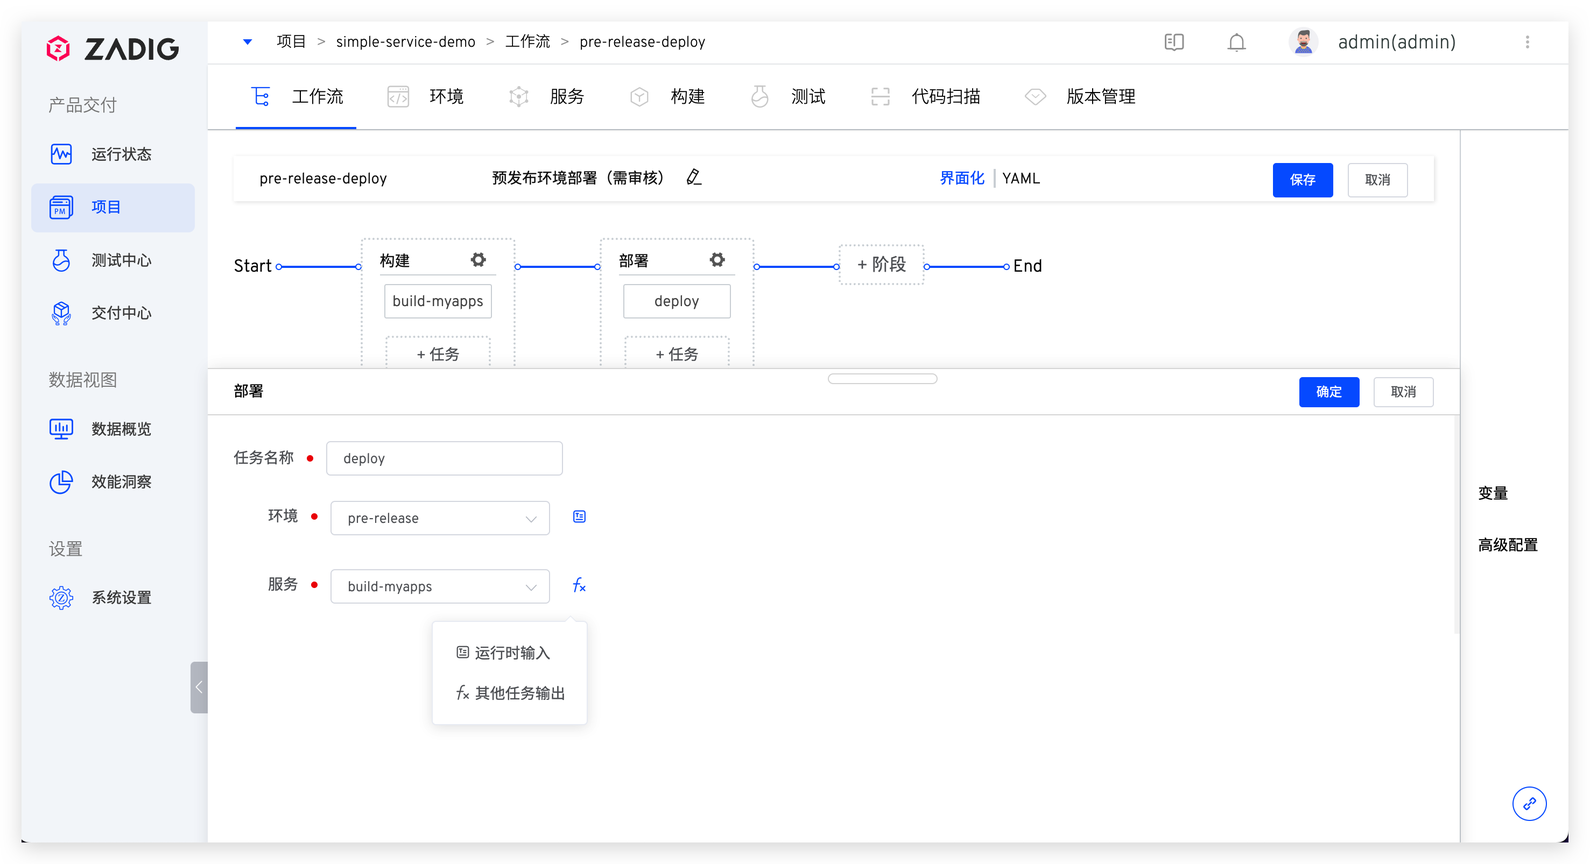
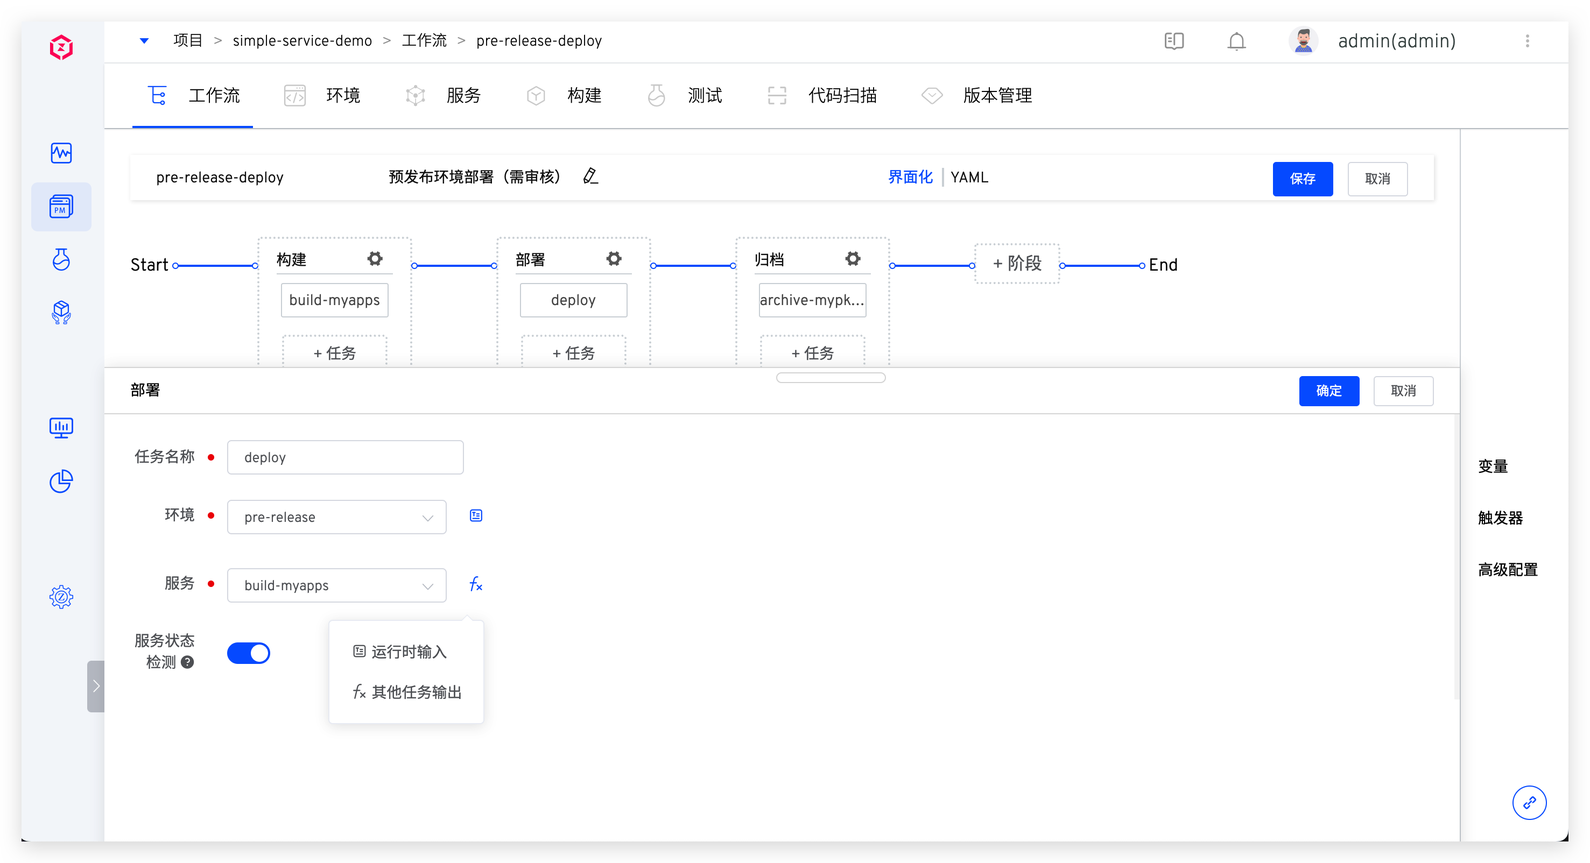
update common pipeline var description

diff --git a/v1.14.0/04.项目/02.工作流/02.common_workflow.md b/v1.14.0/04.项目/02.工作流/02.common_workflow.md
@@ -10,7 +10,7 @@ permalink: /v1.14.0/project/common-workflow/
 
 - 自定义工作流：对工作流流程自由编排，由一系列阶段组成
 - 阶段：对工作流执行阶段进行逻辑分组，比如构建阶段、部署阶段...多个阶段串行运行，一个阶段可包括多个任务
-- 任务：一个完整的任务，比如构建、部署、测试...多个任务可串行执行或并发执行
+- 任务：一个完整的任务，比如构建、部署、测试、自定义任务...多个任务可串行执行或并发执行
 <!-- - Step：组成任务的单元，比如克隆代码、执行 Shell 脚本、执行镜像构建、收集测试报告等... -->
 
 ## 新建
@@ -50,11 +50,9 @@ permalink: /v1.14.0/project/common-workflow/
 参数说明：
 - `任务名称`：支持 32 位以内的小写英文字母、数字或者中划线，且以小写英文字母开头；在同一个自定义工作流中，Job 名称需唯一
 - `镜像仓库`：选择镜像仓库，当构建 Job 执行完成功后，构建出的镜像（即内置 $IMAGE 变量）会被推送到所选仓库中
-- `服务组件`：选择服务组件以及该服务组件使用的构建配置
-
-点击展开构建配置的 `设置`，可设置该构建配置中的变量值以及代码库默认分支，变量的配置参考：[变量配置](#变量来源配置)
-
-![common_workflow_config](../_images/common_workflow_config_3_1.png)
+- `服务组件`：选择服务组件以及该服务组件使用的构建名称，点击展开构建配置的 `设置` 可配置所选中的变量值以及代码库默认分支
+  - `变量`：参考 [构建任务变量](/v1.14.0/project/common-workflow/#构建任务-2)
+  - `分支配置`：选择代码库并指定默认分支，执行工作流时会默认使用指定的分支
 
 ::: tip
 1. 内置构建任务执行结束后会输出 $IMAGE 变量（页面中不可见，系统隐式逻辑），可用于内置部署任务中。
@@ -67,10 +65,14 @@ permalink: /v1.14.0/project/common-workflow/
 
 参数说明：
 - `任务名称`：支持 32 位以内的小写英文字母、数字或者中划线，且以小写英文字母开头；在同一个自定义工作流中，任务名称需唯一
-- `环境`：选择要部署的环境，支持三种来源，参考 [环境配置](#变量来源配置)
-- `服务来源`：包括其他任务输出或运行时输入
+- `环境`：选择要部署的环境，支持三种来源：
+  - `运行时输入`：执行工作流时再指定部署环境
+  - `固定值`：设置部署环境为固定值，执行工作流时不可再更改
+  - `全局变量`：使用全局变量为环境赋值，工作流执行时会自动对全局变量进行渲染替换。全局变量包括 [项目变量](/v1.14.0/project/common-workflow/#项目) 和 [工作流变量](/v1.14.0/project/common-workflow/#工作流)
+- `服务`：配置要部署的服务，包括其他任务输出或运行时输入
     - `其他任务输出`：可选择前置任务，使用任务中的 $IMAGE 变量来部署服务（目前只支持选择前置的构建任务）
     - `运行时输入`：运行工作流时手动指定
+- `服务状态检测`：若开启后，部署任务会轮询服务运行状态，待服务正常运行，任务状态才为成功。
 
 #### 通用任务
 
@@ -78,12 +80,15 @@ permalink: /v1.14.0/project/common-workflow/
 
 - `执行环境`：参考 [构建环境配置](/v1.14.0/project/build/#构建环境)
 - `代码信息`：参考 [代码信息配置](/v1.14.0/project/build/#代码信息)
-- `变量`：包括内置变量和自定义变量，分别参考 [变量配置](/v1.14.0/project/build/#构建变量)、[自定义变量配置](#变量来源配置)
+- `变量`：参考 [通用任务变量](/v1.14.0/project/common-workflow/#通用任务-2)
 - `添加步骤`：包括添加 Shell 脚本执行以及文件存储，可参考 [更多构建配置](/v1.14.0/project/build/#更多构建步骤)
 - `高级配置`：参考 [高级配置](/v1.14.0/project/build/#高级配置)
 
 ![common_workflow_config](../_images/common_workflow_config_6.png)
 ![common_workflow_config](../_images/common_workflow_config_7.png)
+
+#### 自定义任务
+自己定义任务的实现，在工作流中配置自定义任务，详细使用方法请参考 [自定义任务](/v1.14.0/settings/custom-task/)。
 
 ### 人工审核
 开启阶段配置中的`人工审核`，在该阶段执行之前会触发审核。
@@ -94,12 +99,6 @@ permalink: /v1.14.0/project/common-workflow/
 - `超时时间`：从触发审核的时间点开始算起，当超过超时时间后视为审核超时失败，后续阶段中的任务将不会被执行
 - `审核人`：选择希望参与审核的人员
 - `需要审核人数`：当审核通过的人数满足此处指定的值时，即视为整个审核通过，该阶段中的任务会正常执行
-
-### 变量来源配置
-变量的值包括以下三种来源：
-- `运行时输入`：运行自定义工作流时再指定该变量的值
-- `固定值`：指定为固定值，工作流执行时即使用该固定值，页面中该变量不可见
-- `全局变量`：使用全局变量来赋值，在工作流执行时会自动渲染全局变量的值，支持的全局变量可参考 [自定义变量](/v1.14.0/project/common-workflow/#变量配置)
 
 ## YAML 方式配置
 
@@ -247,25 +246,44 @@ description: 预发布环境部署
 multi_run: false
 ```
 
-## 变量配置
+## 变量
+
+自定义工作流中提供丰富的变量能力，以支持参数化配置工作流，并且在阶段和任务之间传递信息。以下分不同的使用范围分别介绍。
+
+
+### 项目
+> 项目级别的变量，可用于当前项目的所有自定义工作流中。
+
+支持的变量见下表：
+
+| 变量                                               | 说明                                                |
+|---------------------------------------------------|-----------------------------------------------------|
+|  <span v-pre>`{{.project}}`</span>                | 项目的名称，下图例中即为 `simple-service-demo`          |
+
+![common_workflow_config](../_images/common_workflow_pipeline_var_demo_0.png)
+
+### 工作流
+
+> 工作流级别的变量，可用于当前工作流的构建任务/部署任务/通用任务/自定义任务中。
 
 包括内置变量和自定义变量。
 
-### 内置变量
+#### 内置变量
 
 支持的内置变量见下表：
 
-| 变量                                               | 说明                       |
-|---------------------------------------------------|----------------------------|
-|  <span v-pre>`{{.project}}`</span>                | 项目的名称                   |
-|  <span v-pre>`{{.workflow.name}}`</span>          | 工作流的名称                 |
-|  <span v-pre>`{{.workflow.task.id}}`</span>       | 工作流任务的 ID 序号          |
-|  <span v-pre>`{{.workflow.task.creator}}`</span>  | 工作流任务的创建者            |
-| <span v-pre>`{{.workflow.task.timestamp}}`</span> | 工作流任务创建时的 Unix 时间戳 |
+| 变量                                                | 说明                                                |
+|----------------------------------------------------|-----------------------------------------------------|
+|  <span v-pre>`{{.workflow.name}}`</span>           | 工作流的名称，下图例中即为 `pre-release-deploy`         |
+|  <span v-pre>`{{.workflow.task.id}}`</span>        | 工作流任务的 ID 序号，下图例中即为 `1`                   |
+|  <span v-pre>`{{.workflow.task.creator}}`</span>   | 工作流任务的执行人，下图例中即为 `admin`                 |
+|  <span v-pre>`{{.workflow.task.timestamp}}`</span> | 工作流任务创建时的 Unix 时间戳，下图例中即为 `1660555623` |
 
-### 自定义变量
+![common_workflow_config](../_images/common_workflow_pipeline_var_demo.png)
 
-点击右侧的 `变量` 进入自定义变量配置页面。
+#### 自定义变量
+
+编辑工作流，点击页面右侧的 `变量` 进入自定义变量配置页面。
 
 ![common_workflow_config](../_images/common_workflow_config_var_0.png)
 
@@ -274,7 +292,7 @@ multi_run: false
 说明如下：
 
 - `类型`：支持字符串/多行文本/枚举类型，其中字符串为单行文本
-- `键`：自定义变量的 key，可在任务中通过 <span v-pre>`{{.key}}`</span> 的形式使用
+- `键`：自定义变量的 key，可以使用 <span v-pre>`{{.workflow.params.key}}`</span> 的形式为构建/部署/通用/自定义任务中的变量赋值
 - `值`：自定义变量的值，支持以下两种配置方式：
   - `运行时输入`：执行工作流时，在`工作流变量`设置中指定该变量的值
   - `固定值`：指定变量的值，工作流执行时即使用该固定值，页面中该变量不可见
@@ -282,6 +300,43 @@ multi_run: false
 上图例中 `LOG_LEVEL` 和 `MYSQL_USER_DB` 的值为运行时输入，`ISSUER_URL` 的值为固定值，执行工作流时效果如下：
 
 ![common_workflow_config](../_images/common_workflow_config_var_1.png)
+
+### 构建任务
+> 内置构建任务中的变量。
+
+变量的键和类型在此处不可更改，变量定义请阅读 [构建配置](/v1.14.0/project/build/#构建变量) 中的自定义构建变量部分。支持以下三种方式设置变量的值：
+
+- `运行时输入`：执行工作流时再指定该变量的值
+- `固定值`：指定变量的值，工作流执行时即使用该固定值，页面中该变量不可见
+- `全局变量`：使用全局变量为构建任务中的变量赋值，工作流执行时会自动对全局变量进行渲染。全局变量包括 [项目变量](/v1.14.0/project/common-workflow/#项目) 和 [工作流变量](/v1.14.0/project/common-workflow/#工作流)
+
+![common_workflow_config](../_images/common_workflow_config_3_1.png)
+
+### 通用任务
+> 通用任务中的变量。
+
+包括内置变量和自定义变量。
+
+![common_workflow_config](../_images/common_workflow_config_common_task.png)
+
+内置变量请参考 [构建变量](v1.14.0/project/build/#构建变量) 中关于内置构建变量的描述，自定义变量说明如下：
+
+- `类型`：支持创建字符串类型和枚举类型的自定义变量
+- `键`：自定义变量的 key，可在 `添加步骤` 中通过 `$key` 的形式来使用
+- `值`：自定义变量的值，支持以下三种配置方式：
+  - `运行时输入`：执行工作流时再指定该变量的值
+  - `固定值`：指定变量的值，工作流执行时即使用该固定值，页面中该变量不可见
+  - `全局变量`：使用全局变量为通用任务中的自定义变量赋值，工作流执行时会自动对全局变量进行渲染。全局变量包括 [项目变量](/v1.14.0/project/common-workflow/#项目) 和 [工作流变量](/v1.14.0/project/common-workflow/#工作流)
+
+### 自定义任务
+> 自定义任务中的变量。
+
+在自定义任务的 YAML 文件中定义，YAML 定义请参考 [工作流任务](/v1.14.0/settings/custom-task/)，变量值的配置支持以下三种方式：
+- `运行时输入`：执行工作流时再指定该变量的值
+- `固定值`：指定变量的值，工作流执行时即使用该固定值，页面中该变量不可见
+- `全局变量`：使用全局变量为通用任务中的自定义变量赋值，工作流执行时会自动对全局变量进行渲染。全局变量包括 [项目变量](/v1.14.0/project/common-workflow/#项目) 和 [工作流变量](/v1.14.0/project/common-workflow/#工作流)
+
+![common_workflow_config](../_images/common_workflow_config_self_define_var.png)
 
 ## 触发器配置
 > 为工作流配置 Webhook 触发器，当满足触发条件的事件发生时会自动触发工作流执行，暂不支持通过 SSH 协议或 AccessToken 方式接入的代码源。

diff --git a/dev/04.项目/02.工作流/02.common_workflow.md b/dev/04.项目/02.工作流/02.common_workflow.md
@@ -10,7 +10,7 @@ permalink: /dev/project/common-workflow/
 
 - 自定义工作流：对工作流流程自由编排，由一系列阶段组成
 - 阶段：对工作流执行阶段进行逻辑分组，比如构建阶段、部署阶段...多个阶段串行运行，一个阶段可包括多个任务
-- 任务：一个完整的任务，比如构建、部署、测试...多个任务可串行执行或并发执行
+- 任务：一个完整的任务，比如构建、部署、测试、自定义任务...多个任务可串行执行或并发执行
 <!-- - Step：组成任务的单元，比如克隆代码、执行 Shell 脚本、执行镜像构建、收集测试报告等... -->
 
 ## 新建
@@ -50,11 +50,9 @@ permalink: /dev/project/common-workflow/
 参数说明：
 - `任务名称`：支持 32 位以内的小写英文字母、数字或者中划线，且以小写英文字母开头；在同一个自定义工作流中，Job 名称需唯一
 - `镜像仓库`：选择镜像仓库，当构建 Job 执行完成功后，构建出的镜像（即内置 $IMAGE 变量）会被推送到所选仓库中
-- `服务组件`：选择服务组件以及该服务组件使用的构建配置
-
-点击展开构建配置的 `设置`，可设置该构建配置中的变量值以及代码库默认分支，变量的配置参考：[变量配置](#变量来源配置)
-
-![common_workflow_config](../_images/common_workflow_config_3_1.png)
+- `服务组件`：选择服务组件以及该服务组件使用的构建名称，点击展开构建配置的 `设置` 可配置所选中的变量值以及代码库默认分支
+  - `变量`：参考 [构建任务变量](/dev/project/common-workflow/#构建任务-2)
+  - `分支配置`：选择代码库并指定默认分支，执行工作流时会默认使用指定的分支
 
 ::: tip
 1. 内置构建任务执行结束后会输出 $IMAGE 变量（页面中不可见，系统隐式逻辑），可用于内置部署任务中。
@@ -67,10 +65,14 @@ permalink: /dev/project/common-workflow/
 
 参数说明：
 - `任务名称`：支持 32 位以内的小写英文字母、数字或者中划线，且以小写英文字母开头；在同一个自定义工作流中，任务名称需唯一
-- `环境`：选择要部署的环境，支持三种来源，参考 [环境配置](#变量来源配置)
-- `服务来源`：包括其他任务输出或运行时输入
+- `环境`：选择要部署的环境，支持三种来源：
+  - `运行时输入`：执行工作流时再指定部署环境
+  - `固定值`：设置部署环境为固定值，执行工作流时不可再更改
+  - `全局变量`：使用全局变量为环境赋值，工作流执行时会自动对全局变量进行渲染替换。全局变量包括 [项目变量](/dev/project/common-workflow/#项目) 和 [工作流变量](/dev/project/common-workflow/#工作流)
+- `服务`：配置要部署的服务，包括其他任务输出或运行时输入
     - `其他任务输出`：可选择前置任务，使用任务中的 $IMAGE 变量来部署服务（目前只支持选择前置的构建任务）
     - `运行时输入`：运行工作流时手动指定
+- `服务状态检测`：若开启后，部署任务会轮询服务运行状态，待服务正常运行，任务状态才为成功。
 
 #### 通用任务
 
@@ -78,12 +80,15 @@ permalink: /dev/project/common-workflow/
 
 - `执行环境`：参考 [构建环境配置](/dev/project/build/#构建环境)
 - `代码信息`：参考 [代码信息配置](/dev/project/build/#代码信息)
-- `变量`：包括内置变量和自定义变量，分别参考 [变量配置](/dev/project/build/#构建变量)、[自定义变量配置](#变量来源配置)
+- `变量`：参考 [通用任务变量](/dev/project/common-workflow/#通用任务-2)
 - `添加步骤`：包括添加 Shell 脚本执行以及文件存储，可参考 [更多构建配置](/dev/project/build/#更多构建步骤)
 - `高级配置`：参考 [高级配置](/dev/project/build/#高级配置)
 
 ![common_workflow_config](../_images/common_workflow_config_6.png)
 ![common_workflow_config](../_images/common_workflow_config_7.png)
+
+#### 自定义任务
+自己定义任务的实现，在工作流中配置自定义任务，详细使用方法请参考 [自定义任务](/dev/settings/custom-task/)。
 
 ### 人工审核
 开启阶段配置中的`人工审核`，在该阶段执行之前会触发审核。
@@ -94,12 +99,6 @@ permalink: /dev/project/common-workflow/
 - `超时时间`：从触发审核的时间点开始算起，当超过超时时间后视为审核超时失败，后续阶段中的任务将不会被执行
 - `审核人`：选择希望参与审核的人员
 - `需要审核人数`：当审核通过的人数满足此处指定的值时，即视为整个审核通过，该阶段中的任务会正常执行
-
-### 变量来源配置
-变量的值包括以下三种来源：
-- `运行时输入`：运行自定义工作流时再指定该变量的值
-- `固定值`：指定为固定值，工作流执行时即使用该固定值，页面中该变量不可见
-- `全局变量`：使用全局变量来赋值，在工作流执行时会自动渲染全局变量的值，支持的全局变量可参考 [自定义变量](/dev/project/common-workflow/#变量配置)
 
 ## YAML 方式配置
 
@@ -247,25 +246,44 @@ description: 预发布环境部署
 multi_run: false
 ```
 
-## 变量配置
+## 变量
+
+自定义工作流中提供丰富的变量能力，以支持参数化配置工作流，并且在阶段和任务之间传递信息。以下分不同的使用范围分别介绍。
+
+
+### 项目
+> 项目级别的变量，可用于当前项目的所有自定义工作流中。
+
+支持的变量见下表：
+
+| 变量                                               | 说明                                                |
+|---------------------------------------------------|-----------------------------------------------------|
+|  <span v-pre>`{{.project}}`</span>                | 项目的名称，下图例中即为 `simple-service-demo`          |
+
+![common_workflow_config](../_images/common_workflow_pipeline_var_demo_0.png)
+
+### 工作流
+
+> 工作流级别的变量，可用于当前工作流的构建任务/部署任务/通用任务/自定义任务中。
 
 包括内置变量和自定义变量。
 
-### 内置变量
+#### 内置变量
 
 支持的内置变量见下表：
 
-| 变量                                               | 说明                       |
-|---------------------------------------------------|----------------------------|
-|  <span v-pre>`{{.project}}`</span>                | 项目的名称                   |
-|  <span v-pre>`{{.workflow.name}}`</span>          | 工作流的名称                 |
-|  <span v-pre>`{{.workflow.task.id}}`</span>       | 工作流任务的 ID 序号          |
-|  <span v-pre>`{{.workflow.task.creator}}`</span>  | 工作流任务的创建者            |
-| <span v-pre>`{{.workflow.task.timestamp}}`</span> | 工作流任务创建时的 Unix 时间戳 |
+| 变量                                                | 说明                                                |
+|----------------------------------------------------|-----------------------------------------------------|
+|  <span v-pre>`{{.workflow.name}}`</span>           | 工作流的名称，下图例中即为 `pre-release-deploy`         |
+|  <span v-pre>`{{.workflow.task.id}}`</span>        | 工作流任务的 ID 序号，下图例中即为 `1`                   |
+|  <span v-pre>`{{.workflow.task.creator}}`</span>   | 工作流任务的执行人，下图例中即为 `admin`                 |
+|  <span v-pre>`{{.workflow.task.timestamp}}`</span> | 工作流任务创建时的 Unix 时间戳，下图例中即为 `1660555623` |
 
-### 自定义变量
+![common_workflow_config](../_images/common_workflow_pipeline_var_demo.png)
 
-点击右侧的 `变量` 进入自定义变量配置页面。
+#### 自定义变量
+
+编辑工作流，点击页面右侧的 `变量` 进入自定义变量配置页面。
 
 ![common_workflow_config](../_images/common_workflow_config_var_0.png)
 
@@ -274,7 +292,7 @@ multi_run: false
 说明如下：
 
 - `类型`：支持字符串/多行文本/枚举类型，其中字符串为单行文本
-- `键`：自定义变量的 key，可在任务中通过 <span v-pre>`{{.key}}`</span> 的形式使用
+- `键`：自定义变量的 key，可以使用 <span v-pre>`{{.workflow.params.key}}`</span> 的形式为构建/部署/通用/自定义任务中的变量赋值
 - `值`：自定义变量的值，支持以下两种配置方式：
   - `运行时输入`：执行工作流时，在`工作流变量`设置中指定该变量的值
   - `固定值`：指定变量的值，工作流执行时即使用该固定值，页面中该变量不可见
@@ -282,6 +300,43 @@ multi_run: false
 上图例中 `LOG_LEVEL` 和 `MYSQL_USER_DB` 的值为运行时输入，`ISSUER_URL` 的值为固定值，执行工作流时效果如下：
 
 ![common_workflow_config](../_images/common_workflow_config_var_1.png)
+
+### 构建任务
+> 内置构建任务中的变量。
+
+变量的键和类型在此处不可更改，变量定义请阅读 [构建配置](/dev/project/build/#构建变量) 中的自定义构建变量部分。支持以下三种方式设置变量的值：
+
+- `运行时输入`：执行工作流时再指定该变量的值
+- `固定值`：指定变量的值，工作流执行时即使用该固定值，页面中该变量不可见
+- `全局变量`：使用全局变量为构建任务中的变量赋值，工作流执行时会自动对全局变量进行渲染。全局变量包括 [项目变量](/dev/project/common-workflow/#项目) 和 [工作流变量](/dev/project/common-workflow/#工作流)
+
+![common_workflow_config](../_images/common_workflow_config_3_1.png)
+
+### 通用任务
+> 通用任务中的变量。
+
+包括内置变量和自定义变量。
+
+![common_workflow_config](../_images/common_workflow_config_common_task.png)
+
+内置变量请参考 [构建变量](v1.14.0/project/build/#构建变量) 中关于内置构建变量的描述，自定义变量说明如下：
+
+- `类型`：支持创建字符串类型和枚举类型的自定义变量
+- `键`：自定义变量的 key，可在 `添加步骤` 中通过 `$key` 的形式来使用
+- `值`：自定义变量的值，支持以下三种配置方式：
+  - `运行时输入`：执行工作流时再指定该变量的值
+  - `固定值`：指定变量的值，工作流执行时即使用该固定值，页面中该变量不可见
+  - `全局变量`：使用全局变量为通用任务中的自定义变量赋值，工作流执行时会自动对全局变量进行渲染。全局变量包括 [项目变量](/dev/project/common-workflow/#项目) 和 [工作流变量](/dev/project/common-workflow/#工作流)
+
+### 自定义任务
+> 自定义任务中的变量。
+
+在自定义任务的 YAML 文件中定义，YAML 定义请参考 [工作流任务](/dev/settings/custom-task/)，变量值的配置支持以下三种方式：
+- `运行时输入`：执行工作流时再指定该变量的值
+- `固定值`：指定变量的值，工作流执行时即使用该固定值，页面中该变量不可见
+- `全局变量`：使用全局变量为通用任务中的自定义变量赋值，工作流执行时会自动对全局变量进行渲染。全局变量包括 [项目变量](/dev/project/common-workflow/#项目) 和 [工作流变量](/dev/project/common-workflow/#工作流)
+
+![common_workflow_config](../_images/common_workflow_config_self_define_var.png)
 
 ## 触发器配置
 > 为工作流配置 Webhook 触发器，当满足触发条件的事件发生时会自动触发工作流执行，暂不支持通过 SSH 协议或 AccessToken 方式接入的代码源。
